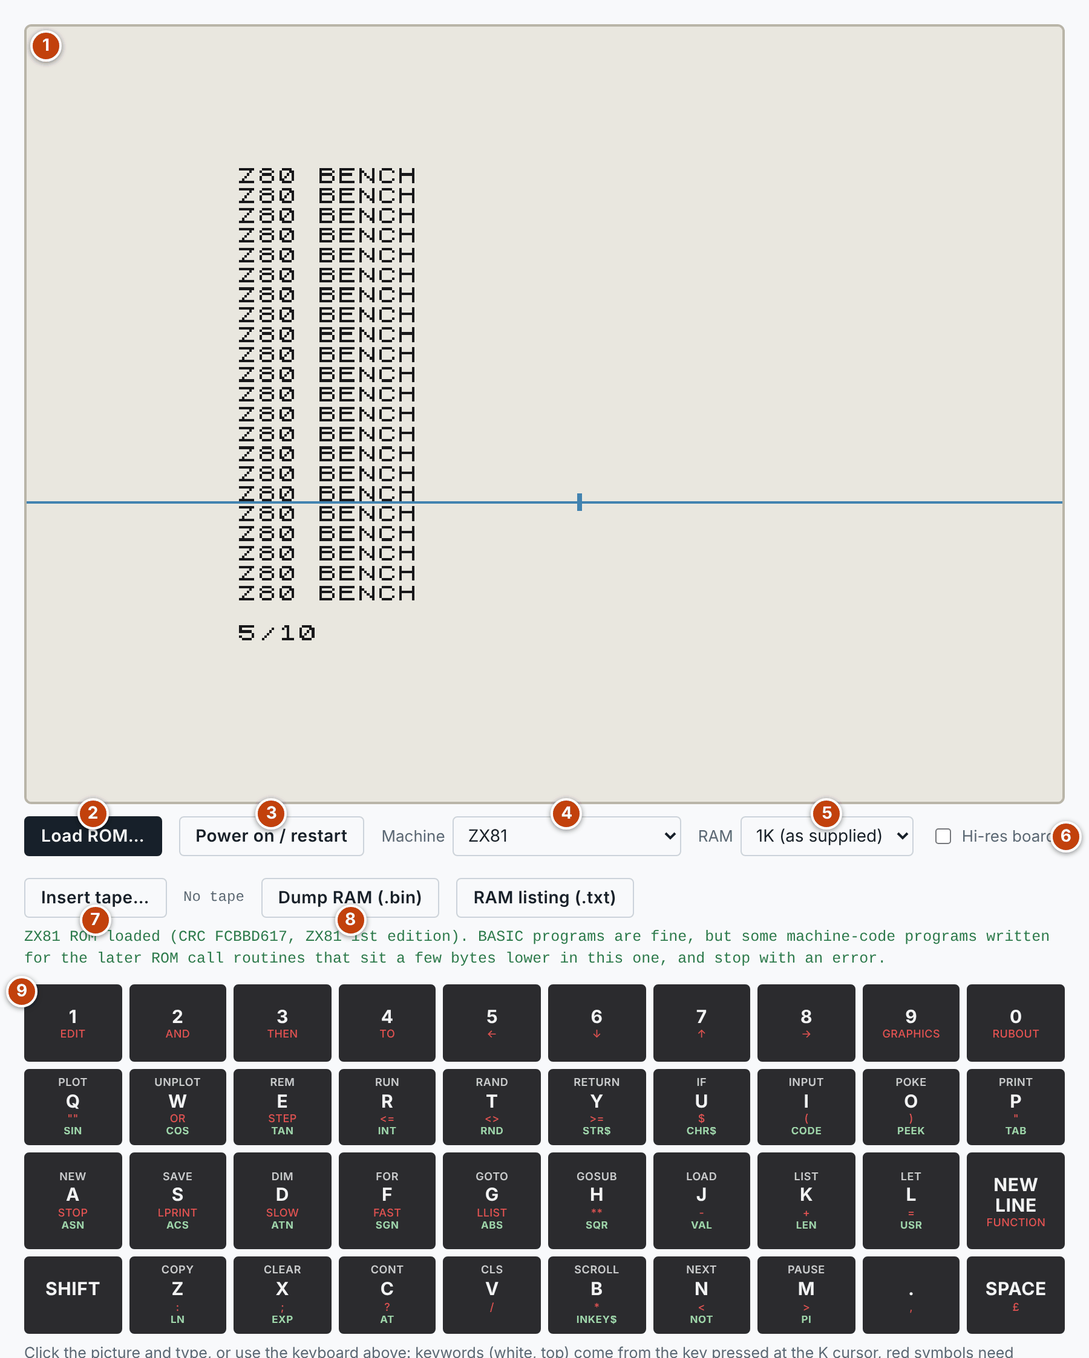
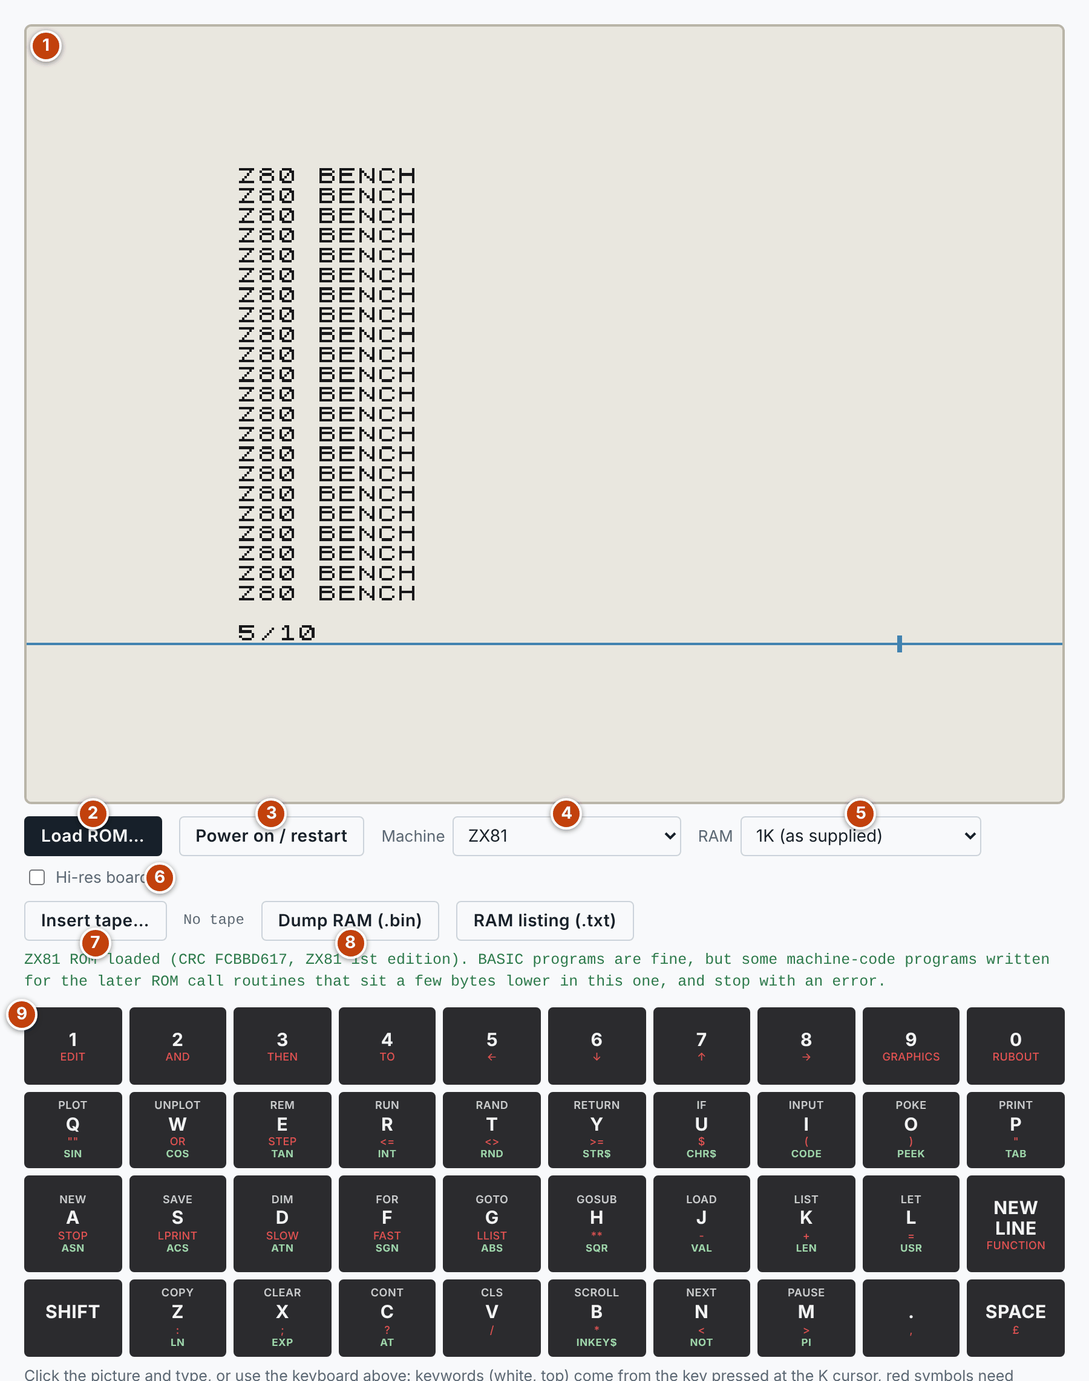
Sinclair ZX80/ZX81: 2K built-in RAM option (Timex Sinclair 1000), with the documentation and screenshots updated
Claude-Session: https://claude.ai/code/session_01J5P2eVnFbGQdtbwaSPz7RY

diff --git a/zx80/app/index.html b/zx80/app/index.html
@@ -363,7 +363,7 @@ table.mem td.b.mw { box-shadow: inset 0 0 0 1.5px var(--warn); }
           <button id="zxLoadRom" class="primary" type="button">Load ROM…</button><input type="file" id="zxRomFile" hidden>
           <button id="zxRestart" type="button">Power on / restart</button>
           <label class="inline" for="zxMachine">Machine <select id="zxMachine"><option value="zx80">ZX80 (4K ROM)</option><option value="zx80-8k">ZX80 with the 8K ROM</option><option value="zx81">ZX81</option></select></label>
-          <label class="inline" for="zxRam">RAM <select id="zxRam"><option value="1024" selected>1K (as supplied)</option><option value="16384">16K RAM pack</option><option value="32768">32K RAM pack</option><option value="49152">48K RAM pack</option></select></label>
+          <label class="inline" for="zxRam">RAM <select id="zxRam"><option value="1024" selected>1K (as supplied)</option><option value="2048">2K (Timex Sinclair 1000)</option><option value="16384">16K RAM pack</option><option value="32768">32K RAM pack</option><option value="49152">48K RAM pack</option></select></label>
           <label class="inline" for="zxHires" title="8K of battery-backed RAM at 2000h-3FFFh that also answers the Z80's refresh cycles (WRX), so programs can show true high-resolution pictures straight from RAM. This is what the SCRAM board and similar hi-res boards did."><input type="checkbox" id="zxHires"> Hi-res board</label>
           <span class="osbkeys mono" id="zxKeysDown"></span>
         </div>
@@ -388,7 +388,7 @@ table.mem td.b.mw { box-shadow: inset 0 0 0 1.5px var(--warn); }
             <div class="row mcbtns"><button id="mcClear" type="button">Clear this chip's faults</button><button id="mcClearAll" type="button">Clear all memory faults</button></div>
           </figure>
         </div>
-        <p class="hint">The machine's memory chips: the ROM (IC2: the 4K 2332 of the ZX80, or the 8K 2364), the two 2114s of the built-in 1K (IC3 and IC4 on the ZX80, IC4a and IC4b on the ZX81) or, with a RAM pack, its 4116 dynamic RAMs, one per data bit in each 16K. A tile's dot lights while its chip is being accessed. Click a tile to see that chip's pins, which follow the bus on every clock. Assumed: the first 2114 holds data bits 0–3, and the RAM pack is wired in the usual way (its chips have no board numbers here). The 8K of the hi-res board is not included.</p>
+        <p class="hint">The machine's memory chips: the ROM (IC2: the 4K 2332 of the ZX80, or the 8K 2364), the two 2114s of the built-in 1K (IC3 and IC4 on the ZX80, IC4a and IC4b on the ZX81), the single 2K 4016 that a Timex Sinclair 1000 has in position IC4 instead (read from a real board) or, with a RAM pack, its 4116 dynamic RAMs, one per data bit in each 16K. A tile's dot lights while its chip is being accessed. Click a tile to see that chip's pins, which follow the bus on every clock. Assumed: the first 2114 holds data bits 0–3, and the RAM pack is wired in the usual way (its chips have no board numbers here). The 8K of the hi-res board is not included.</p>
         <p class="hint">To simulate a fault, click a pin: Disconnected lifts the pin from the board (an input then floats high, an output no longer reaches the bus), Stuck high and Stuck low hold it at that level. An address pin fault makes the chip use the wrong cell; a data pin fault changes that bit on reads and writes; chip select held high (or a fault on RAS or CAS of a dynamic RAM) takes the chip out of circuit; write enable held high loses writes, held low turns every access into a write. Faults are listed in the Debug panel and cleared there, here, or by Master reset. The memory view and the disassembly show what the CPU reads through the faults.</p>
       </section>
   </div>
@@ -1332,6 +1332,8 @@ const MEM_PINOUTS = {
   '4416': [[1, 'OE', 'i'], [2, 'DQ1', 'i'], [3, 'DQ2', 'i'], [4, 'WE', 'i'], [5, 'RAS', 'i'], [6, 'A6', 'i'], [7, 'A5', 'i'], [8, 'A4', 'i'], [9, 'VCC', 'p'],
     [10, 'A7', 'i'], [11, 'A3', 'i'], [12, 'A2', 'i'], [13, 'A1', 'i'], [14, 'A0', 'i'], [15, 'DQ3', 'i'], [16, 'CAS', 'i'], [17, 'DQ4', 'i'], [18, 'GND', 'g']]
 };
+// the NEC uPD4016 is a 2K static RAM with the 6116's pinout
+MEM_PINOUTS['4016'] = MEM_PINOUTS['6116'];
 const MEM_ACTIVE_LOW = new Set(['CE', 'CS', 'OE', 'WE', 'RAS', 'CAS', 'PGM']);
 class MemChip {
   // arr/base/abits: where the chip's cells are (arr[base + address], address 0 .. 2^abits - 1)
@@ -1473,20 +1475,23 @@ class ZX80 {
     this.rom = new Uint8Array(0x2000); if (rom) this.rom.set(rom.subarray(0, 0x2000));
     this.setMachine(machine || 'zx80');
     this.ram = new Uint8Array(0xC000);         // 4000h-FFFFh
-    this.ramSize = 0x400;                      // 1K as supplied; 16K with the RAM pack; 32K or 48K with bigger packs
+    this.ramSize = 0x400;                      // 1K as supplied (2K on the Timex Sinclair 1000); 16K with the RAM pack; 32K or 48K with bigger packs
     this.lowRam = new Uint8Array(0x2000);      // 8K of RAM at 2000h-3FFFh in place of the ROM's echo (a hi-res board)
     this.hires = false;                        // hi-res board fitted: RAM at 2000h, and RAM answers refresh cycles (WRX)
     // memory chips (src/memchips.js), for the pin display and fault simulation: the ROM (IC2: a 4K 2332 on the ZX80,
     // an 8K 2364 with the 8K ROM), the two 2114s of the built-in 1K (IC3 and IC4 on the ZX80, IC4a and IC4b on the ZX81;
-    // which holds which half of the byte is assumed: bits 0-3 in the first) and the 4116s of the RAM packs, one per data bit per 16K
+    // which holds which half of the byte is assumed: bits 0-3 in the first) and the 4116s of the RAM packs, one per data bit per 16K.
+    // The ZX81 board also takes one 24-pin static RAM in position IC4 in place of the two 2114s. A Timex Sinclair 1000
+    // (a Sinclair ZX81 issue 3 board, seen on a real machine) has a 2K NEC uPD4016 there; how its enables are wired is assumed.
     const C = (id, part, what, range, arr, base, abits, extra) => new MemChip(id, part, what, range, arr, base, abits, extra);
     this.romChips = [C('IC2', '2332', 'ROM: 4K BASIC', '0000h-0FFFh, repeated up to 3FFFh', this.rom, 0, 12, { rom: true, en: 'CS' }), C('IC2-8K', '2364', 'ROM: 8K BASIC', '0000h-1FFFh, repeated up to 3FFFh', this.rom, 0, 13, { rom: true, en: 'CS' })];
     this.ram1k = [C('IC3', '2114', 'built-in RAM, data bits 0-3', '4000h-43FFh, repeated', this.ram, 0, 10, { nib: 0, en: 'CS' }), C('IC4', '2114', 'built-in RAM, data bits 4-7', '4000h-43FFh, repeated', this.ram, 0, 10, { nib: 4, en: 'CS' })];
+    this.ram2k = [C('IC4-2K', '4016', 'built-in RAM: one 2K static RAM (Timex Sinclair 1000)', '4000h-47FFh, repeated', this.ram, 0, 11, { en: 'CE', label: 'IC4' })];
     this.packs = [0, 1, 2].map(k => [0, 1, 2, 3, 4, 5, 6, 7].map(bit => C(`PACK${k + 1}.D${bit}`, '4116', `RAM pack: ${k ? ['', 'second', 'third'][k] + ' 16K' : '16K'}, data bit ${bit}`, `${(0x4000 + k * 0x4000).toString(16).toUpperCase()}h-${(0x7FFF + k * 0x4000).toString(16).toUpperCase()}h`, this.ram, k * 0x4000, 14, { dram: true, bit, mux: 7, pack: k })));
-    this.chips = [...this.romChips, ...this.ram1k, ...this.packs[0], ...this.packs[1], ...this.packs[2]];
-    this.banks = [[this.romChips[0]], [this.romChips[1]], this.ram1k, ...this.packs];
+    this.chips = [...this.romChips, ...this.ram1k, ...this.packs[0], ...this.packs[1], ...this.packs[2], ...this.ram2k];   // the 2K chip is last so the other indexes stay put
+    this.banks = [[this.romChips[0]], [this.romChips[1]], this.ram1k, ...this.packs, this.ram2k];
     this.chipById = {}; for (const c of this.chips) this.chipById[c.id] = c;
-    this.acc = new Uint32Array(5);             // accesses: 0 the ROM, 1 the built-in 1K, 2-4 the RAM pack's 16K banks
+    this.acc = new Uint32Array(5);             // accesses: 0 the ROM, 1 the built-in RAM (1K or 2K), 2-4 the RAM pack's 16K banks
     this.faulty = false;
     this.keys = new Uint8Array(8);             // bit set = key down
     this.fb = new Uint8Array(ZX.W * ZX.H);      // TV picture being built: 1 = ink (black)
@@ -1532,9 +1537,9 @@ class ZX80 {
     return a & 0x4000 ? (a - 0x4000) & (this.ramSize - 1) & 0x3FFF : -1;
   }
   // memory through the chips; quiet = no side effects and no access counting (the panes, the display)
-  ramBank(i) { return this.ramSize <= 0x400 ? this.ram1k : this.packs[i >> 14]; }
+  ramBank(i) { return this.ramSize <= 0x400 ? this.ram1k : this.ramSize < 0x4000 ? this.ram2k : this.packs[i >> 14]; }
   ramGet(i, quiet) {
-    if (!quiet) this.acc[this.ramSize <= 0x400 ? 1 : 2 + (i >> 14)]++;
+    if (!quiet) this.acc[this.ramSize < 0x4000 ? 1 : 2 + (i >> 14)]++;
     if (!this.faulty) return this.ram[i];
     const bank = this.ramBank(i); let v = bank.faulty ? memBankRead(bank, i & 0x3FFF, quiet) : this.ram[i];
     const r = this.romChips[this.rom8k ? 1 : 0]; if (r.always) v &= memBankRead([r], i & this.romMask, true);      // ROM chip select stuck low: it drives the bus too
@@ -1553,7 +1558,7 @@ class ZX80 {
   peek(a) { return this.read(a, false, true); }
   write(a, v) {
     const i = this.ramAt(a, false);
-    if (i >= 0) { this.acc[this.ramSize <= 0x400 ? 1 : 2 + (i >> 14)]++; const bank = this.faulty ? this.ramBank(i) : null; if (bank && bank.faulty) memBankWrite(bank, i & 0x3FFF, v); else this.ram[i] = v; return; }
+    if (i >= 0) { this.acc[this.ramSize < 0x4000 ? 1 : 2 + (i >> 14)]++; const bank = this.faulty ? this.ramBank(i) : null; if (bank && bank.faulty) memBankWrite(bank, i & 0x3FFF, v); else this.ram[i] = v; return; }
     a &= 0x7FFF; if (this.hires && a >= 0x2000) this.lowRam[a - 0x2000] = v;
   }
   // the byte RAM puts on the bus during a refresh cycle (address I:R), or -1 if no RAM answers. A plain ZX81's
@@ -3178,6 +3183,7 @@ $('zxDumpBin').onclick = () => { const sz = zx.ramSize; zxSaved(zxDownload(`${zx
 $('zxDumpTxt').onclick = () => zxSaved(zxDownload(`${zx.rom8k ? 'zx81' : 'zx80'}-ram-${zxStamp()}.txt`, zx.ramReport(), 'text/plain;charset=utf-8'), f => `RAM listing saved to ${f}: system variables, memory areas, the BASIC program and a hex dump.`);
 $('zxRam').onchange = () => {
   zx.ramSize = +$('zxRam').value; disDirty = true; if (zxRom) zxPowerOn(); else render();
+  if (zx.ramSize === 0x800) { $('zxMsg').className = 'msg'; $('zxMsg').textContent = '2K fitted: one 2K static RAM (NEC µPD4016) in position IC4 in place of the two 2114s, as on the Timex Sinclair 1000, which is a ZX81 issue 3 board built for the US market. The American 60 Hz picture is not emulated: the machine still runs as a 50 Hz ZX81.'; }
   if (zx.ramSize > 0x4000) {   // the ROMs only look for RAM up to 7FFFh, as on the real machines
     const hi = zx.ramSize === 0x8000 ? 192 : 255;
     $('zxMsg').className = 'msg'; $('zxMsg').textContent = zx.rom8k
@@ -3192,16 +3198,18 @@ $('zxHires').onchange = () => {
 };
 
 // ---------- memory chips: what this machine has, and what each pin's board net is doing ----------
+const MC2K = zx.chips.indexOf(zx.ram2k[0]);   // the Timex Sinclair 1000's single 2K RAM chip
 const MC = {
   m: zx,
   groups() {
     const g = [['ROM', [zx.rom8k ? 1 : 0]]];
     if (zx.ramSize <= 0x400) g.push(['Built-in 1K RAM · two 2114s, four bits each', [3, 2]]);
+    else if (zx.ramSize < 0x4000) g.push(['Built-in 2K RAM · one 4016 in position IC4 (Timex Sinclair 1000)', [MC2K]]);
     else for (let k = 0; k < zx.ramSize >> 14; k++) g.push([`RAM pack · ${k ? ['', 'second', 'third'][k] + ' 16K' : '16K'} at ${h4(0x4000 + k * 0x4000)}h · one 4116 per data bit`, [7, 6, 5, 4, 3, 2, 1, 0].map(b => 4 + k * 8 + b)]);
     return g;
   },
-  tile(c, i) { return i < 2 ? ['IC2', c.part + ' · ROM'] : i < 4 ? [zx.machine === 'zx81' ? 'IC4' + 'ab'[i - 2] : c.id, '2114 · D' + (c.nib ? '4–7' : '0–3')] : ['D' + c.bit, '4116']; },
-  acc(i) { return i < 2 ? 0 : i < 4 ? 1 : 2 + ((i - 4) >> 3); },
+  tile(c, i) { return i === MC2K ? ['IC4', '4016 · D0–7'] : i < 2 ? ['IC2', c.part + ' · ROM'] : i < 4 ? [zx.machine === 'zx81' ? 'IC4' + 'ab'[i - 2] : c.id, '2114 · D' + (c.nib ? '4–7' : '0–3')] : ['D' + c.bit, '4116']; },
+  acc(i) { return i < 2 ? 0 : i < 4 || i === MC2K ? 1 : 2 + ((i - 4) >> 3); },
   bus() {
     const T = curT, A = T.a === null || T.a === 'z' ? null : T.a, mem = T.mreq === 0 && T.rfsh !== 0 && A !== null;
     const ri = mem ? zx.ramAt(A, T.m1 === 0) : -1, low = mem && ri < 0 && zx.hires && (A & 0x7FFF) >= 0x2000;
@@ -3214,6 +3222,13 @@ const MC = {
       if ((d = /^D(\d)$/.exec(name))) return B.rom && B.rd ? D(+d[1]) : 'z';
       return name === 'CS' ? (B.rom ? 0 : 1) : 1;
     }
+    if (i === MC2K) {                   // the 2K static RAM in IC4 (assumed: CE is the RAM select, OE follows /RD, WE follows /WR)
+      const sel = B.ri >= 0 && zx.ramSize === 0x800;
+      if (m) return A === null ? 'z' : (A >> +m[1]) & 1;
+      if (name === 'CE') return sel ? 0 : 1; if (name === 'OE') return sel && B.rd ? 0 : 1; if (name === 'WE') return sel && B.wr ? 0 : 1;
+      if ((d = /^D(\d)$/.exec(name))) return sel && (B.rd || B.wr) ? D(+d[1]) : 'z';
+      return 'z';
+    }
     if (i < 4) {                        // the two 2114s
       const sel = B.ri >= 0 && zx.ramSize <= 0x400;
       if (m) return A === null ? 'z' : (A >> +m[1]) & 1;
@@ -3222,7 +3237,7 @@ const MC = {
       return 'z';
     }
     {                                   // RAM pack 4116s: seven address pins carry the row, then the column
-      const sel = B.ri >= 0 && zx.ramSize > 0x400 && (B.ri >> 14) === c.pack, o = B.ri & 0x3FFF;
+      const sel = B.ri >= 0 && zx.ramSize >= 0x4000 && (B.ri >> 14) === c.pack, o = B.ri & 0x3FFF;
       if (m) return A === null ? 'z' : sel && (B.rd || B.wr) ? (o >> (7 + +m[1])) & 1 : (A >> +m[1]) & 1;
       switch (name) { case 'RAS': return B.T.mreq === 0 ? 0 : 1; case 'CAS': return sel && (B.rd || B.wr) ? 0 : 1; case 'WE': return sel && B.wr ? 0 : 1; case 'DIN': return D(c.bit); case 'DOUT': return sel && B.rd ? D(c.bit) : 'z'; }
       return 'z';
@@ -3238,7 +3253,7 @@ function mcClosePop() { if (mcPop) { mcPop.remove(); mcPop = null; } }
 document.addEventListener('click', e => { if (mcPop && !mcPop.contains(e.target) && !e.target.closest('#mcChip .pin.input')) mcClosePop(); });
 document.addEventListener('keydown', e => { if (e.key === 'Escape') mcClosePop(); });
 // debug-pane entries for the faults
-function mcDebugItems() { return memFaultList(MC.m).map(([id, pin, v]) => ['mfault:' + id + ':' + pin, 'chip fault', `${id} (${MC.m.chipById[id].part}) pin ${pin} ${mcFaultText(v)}`]); }
+function mcDebugItems() { return memFaultList(MC.m).map(([id, pin, v]) => ['mfault:' + id + ':' + pin, 'chip fault', `${MC.m.chipById[id].label || id} (${MC.m.chipById[id].part}) pin ${pin} ${mcFaultText(v)}`]); }
 function mcDebugRemove(t, v) { if (t !== 'mfault') return false; const i = v.lastIndexOf(':'); mcSetFault(v.slice(0, i), v.slice(i + 1), null); return true; }
 // a DIP of any size, drawn the same way as the CPU
 function mcDraw() {
@@ -3249,7 +3264,7 @@ function mcDraw() {
   svg('rect', { class: 'body-rect', x: bx, y: top - 6, width: bw, height: bh, rx: 5 }, s);
   svg('path', { d: `M ${bx + bw / 2 - 12} ${top - 6} a 12 12 0 0 0 24 0`, fill: 'var(--bg)' }, s);
   const t1 = svg('text', { class: 'chiptitle', x: bx + bw / 2, y: top + bh / 2 - 8, 'text-anchor': 'middle', 'font-size': 24 }, s); t1.textContent = c.part;
-  const t2 = svg('text', { class: 'chipsub', x: bx + bw / 2, y: top + bh / 2 + 12, 'text-anchor': 'middle' }, s); t2.textContent = c.id;
+  const t2 = svg('text', { class: 'chipsub', x: bx + bw / 2, y: top + bh / 2 + 12, 'text-anchor': 'middle' }, s); t2.textContent = c.label || c.id;
   for (const [n, name, kind] of list) {
     const left = n <= half, idx = left ? n - 1 : list.length - n, y = top + idx * pitch + 6, sx = left ? bx - 30 : bx + bw + 4;
     const g = svg('g', { class: 'pin' + (kind === 'i' ? ' input' : ''), 'data-pin': name }, s);
@@ -3267,7 +3282,7 @@ function mcDraw() {
     }
     mcEls[name] = { g, sv, prev: null, kind };
   }
-  $('mcCap').innerHTML = `<b>${esc(c.id)} · ${esc(c.part)}</b><br>${esc(c.what)}<br>${esc(c.range)}`;
+  $('mcCap').innerHTML = `<b>${esc(c.label || c.id)} · ${esc(c.part)}</b><br>${esc(c.what)}<br>${esc(c.range)}`;
 }
 function mcMenu(name, ev) {
   mcClosePop();

diff --git a/zx80/docs/index.html b/zx80/docs/index.html
@@ -94,7 +94,7 @@
       <li><b>Load ROM…:</b> loads the ROM image for the machine chosen. The message under the buttons names the ROM it recognised.</li>
       <li><b>Power on / restart:</b> resets the machine and runs it in real time.</li>
       <li><b>Machine:</b> the ZX80 with its 4K Integer BASIC; the ZX80 with the 8K ROM upgrade, which gives ZX81 BASIC in FAST mode only; or the ZX81.</li>
-      <li><b>RAM:</b> 1K as supplied, or a 16K, 32K or 48K RAM pack.</li>
+      <li><b>RAM:</b> 1K as supplied, 2K as in the Timex Sinclair 1000, or a 16K, 32K or 48K RAM pack.</li>
       <li><b>Hi-res board:</b> adds 8K of RAM at <code>2000h</code> that also answers the Z80's refresh cycles, as the SCRAM and WRX boards did, so programs written for them can draw true high-resolution pictures.</li>
       <li><b>Insert tape…:</b> see <a href="#tape">Tape and RAM dumps</a>.</li>
       <li><b>Dump RAM (.bin)</b> and <b>RAM listing (.txt)</b></li>
@@ -139,7 +139,7 @@
     </figure>
     <ol class="keyed">
       <li><b>ROM:</b> IC2, the 4K 2332 of the ZX80 or the 8K 2364.</li>
-      <li><b>RAM:</b> the two 2114s of the built-in 1K, four data bits each. With a RAM pack fitted, its 4116 dynamic RAMs appear here instead, one for each data bit in each 16K. A tile's dot lights while its chip is being accessed, and a tile with a fault turns red.</li>
+      <li><b>RAM:</b> the two 2114s of the built-in 1K, four data bits each. With 2K chosen, the single 4016 in position IC4 appears instead. With a RAM pack fitted, its 4116 dynamic RAMs appear here instead, one for each data bit in each 16K. A tile's dot lights while its chip is being accessed, and a tile with a fault turns red.</li>
       <li><b>Pinout:</b> click a tile to see that chip's pins, which follow the bus on every clock.</li>
       <li><b>Pin menu:</b> click a pin and choose <b>Disconnected</b>, <b>Stuck high</b> or <b>Stuck low</b>.</li>
       <li><b>Faults on this chip</b></li>
@@ -154,7 +154,7 @@
       <tr><td>Write enable</td><td>Stuck high or disconnected</td><td>Writes are lost</td></tr>
       <tr><td>Write enable</td><td>Stuck low</td><td>Every access becomes a write</td></tr>
     </table></div>
-    <p>Faults are listed in the Debug pane and cleared there, here, or by Master reset. Two things are assumed, not measured: that the first 2114 holds data bits 0–3, and that the RAM pack is wired in the usual way.</p>
+    <p>Faults are listed in the Debug pane and cleared there, here, or by Master reset. Three things are assumed, not measured: that the first 2114 holds data bits 0–3, how the 2K chip's enable pins are wired, and that the RAM pack is wired in the usual way.</p>
 
     <h3 id="videologic">Video logic panel</h3>
     <figure class="fig">
@@ -200,7 +200,7 @@
       <tr><td>ROM</td><td>4K Integer BASIC</td><td colspan="2">8K BASIC with floating point</td></tr>
       <tr><td>Video logic</td><td colspan="2">Discrete TTL logic chips</td><td>One ULA, which adds the NMI generator</td></tr>
       <tr><td>Display while computing</td><td colspan="2">Blank</td><td>Kept on in SLOW mode</td></tr>
-      <tr><td>RAM</td><td colspan="3">1K built in, more with a RAM pack</td></tr>
+      <tr><td>RAM</td><td colspan="3">1K built in (2K in the Timex Sinclair 1000), more with a RAM pack</td></tr>
     </table></div>
 
     <h3 id="hw-video">How the picture is made</h3>
@@ -229,7 +229,7 @@
       <tr><th>Address</th><th>Contents</th></tr>
       <tr><td class="mono">0000h–1FFFh</td><td>ROM. The 4K ROM appears twice</td></tr>
       <tr><td class="mono">2000h–3FFFh</td><td>The ROM again, or the hi-res board's 8K of RAM</td></tr>
-      <tr><td class="mono">4000h–7FFFh</td><td>RAM. The built-in 1K repeats through the whole area; a 16K pack fills it</td></tr>
+      <tr><td class="mono">4000h–7FFFh</td><td>RAM. The built-in 1K or 2K repeats through the whole area; a 16K pack fills it</td></tr>
       <tr><td class="mono">8000h–FFFFh</td><td>With up to 16K: a copy of <code>0000h</code>–<code>7FFFh</code>, because A15 is not decoded (it is the video trigger). With a 32K or 48K pack: more RAM</td></tr>
     </table></div>
     <p>With a 32K or 48K pack, opcode fetches from <code>C000h</code> up still see the copy of <code>4000h</code>–<code>7FFFh</code>, because that is where the display file is executed.</p>
@@ -264,15 +264,16 @@
       <tr><th>Position</th><th>Chip</th><th>Use</th></tr>
       <tr><td class="mono">IC2</td><td>2332 (4K) or 2364 (8K)</td><td>ROM</td></tr>
       <tr><td class="mono">IC3, IC4 (ZX80)<br>IC4a, IC4b (ZX81)</td><td>2114 (1K × 4 bits)</td><td>Built-in 1K of RAM, four data bits in each chip</td></tr>
+      <tr><td class="mono">IC4 (Timex Sinclair 1000)</td><td>NEC µPD4016 (2K × 8 bits, 6116 type)</td><td>Built-in 2K of RAM in one chip, fitted in place of the two 2114s</td></tr>
       <tr><td>RAM pack</td><td>4116 (16K × 1 bit)</td><td>Eight chips, one for each data bit, in each 16K</td></tr>
     </table></div>
-    <p>These follow the published schematics. They have not yet been checked against a real board.</p>
+    <p>The ROM, the 2114s and the RAM pack follow the published schematics. The 2K chip was read from a real Timex Sinclair 1000, which is a Sinclair ZX81 issue 3 board built for the American market: a 2364 ROM in IC2, a Z80A in IC3, a Ferranti ULA 2C210E in IC1 and the µPD4016 in IC4, with the two 2114 positions left empty.</p>
 
     <h3 id="hw-limits">What is not emulated</h3>
     <ul class="features">
       <li><b>Tape signals:</b> LOAD and SAVE work on whole files instantly; the cassette waveform is not modelled.</li>
       <li><b>The ZX Printer</b></li>
-      <li><b>60 Hz machines:</b> the keyboard port always reports a 50 Hz machine.</li>
+      <li><b>60 Hz machines:</b> the keyboard port always reports a 50 Hz machine, so the Timex Sinclair 1000's 2K of RAM is emulated but its American 60 Hz picture is not.</li>
       <li><b>The hi-res board's RAM chips</b> are not in the Memory chips panel.</li>
     </ul>
 

diff --git a/zx80/index.html b/zx80/index.html
@@ -30,8 +30,8 @@
       <li><b>Video from the CPU:</b> character bytes become NOPs, the font is fetched during refresh cycles, HALT and the interrupt end each line, and a virtual TV locks onto the sync pulses. The screen blanks while BASIC is busy, just as the real one does</li>
       <li><b>Keyboard:</b> type on your keyboard, or click the on-screen keys, which show each key's BASIC keyword, SHIFT symbol and (on the ZX81) FUNCTION word from the ROM's own tables</li>
       <li><b>Tape:</b> LOAD and SAVE programs instantly as standard .o (ZX80) and .p (ZX81) files: insert a file and type LOAD, or SAVE and the program downloads. The emulator picks the right machine for the file and plugs in the 16K RAM pack when a program needs it</li>
-      <li><b>Memory:</b> 1K as supplied, or a 16K, 32K or 48K RAM pack, plus an optional hi-res board: 8K of RAM at 2000h that answers the Z80's refresh cycles, as the SCRAM and WRX boards did, so programs can draw true high-resolution pictures. Dump the RAM as a binary file, or as a readable listing with the system variables, memory areas, the BASIC program as text and a hex dump</li>
-      <li><b>Memory chips and faults:</b> every memory chip with its pins live: the ROM, the two 2114s of the built-in 1K and the 4116s of the RAM pack. Click any pin to disconnect it or hold it high or low, and watch what the machine does with a stuck data bit, a dead address line or a missing chip</li>
+      <li><b>Memory:</b> 1K as supplied, 2K as in the Timex Sinclair 1000, or a 16K, 32K or 48K RAM pack, plus an optional hi-res board: 8K of RAM at 2000h that answers the Z80's refresh cycles, as the SCRAM and WRX boards did, so programs can draw true high-resolution pictures. Dump the RAM as a binary file, or as a readable listing with the system variables, memory areas, the BASIC program as text and a hex dump</li>
+      <li><b>Memory chips and faults:</b> every memory chip with its pins live: the ROM, the two 2114s of the built-in 1K (or the single 2K chip of a Timex Sinclair 1000, read from a real board) and the 4116s of the RAM pack. Click any pin to disconnect it or hold it high or low, and watch what the machine does with a stuck data bit, a dead address line or a missing chip</li>
       <li><b>Real time:</b> 3.25 MHz, or full speed</li>
       <li><b>Debugging:</b> Z80 Bench's tools, including the disassembler, memory view, breakpoints and stepping, plus a panel showing the video logic: line counter, sync, the character latch and the ZX81's NMI generator</li>
     </ul>
